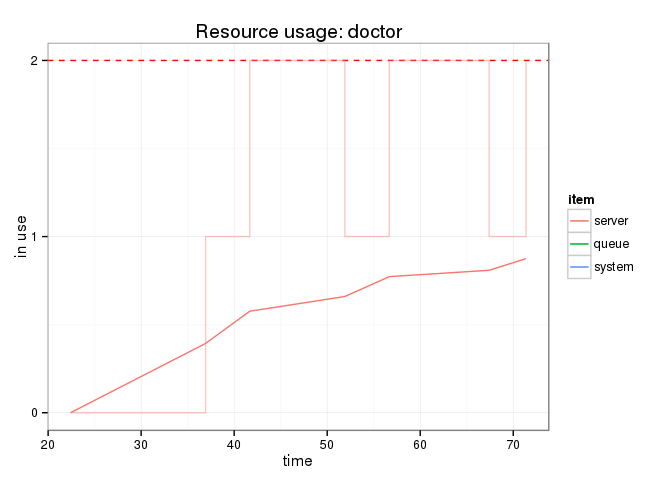
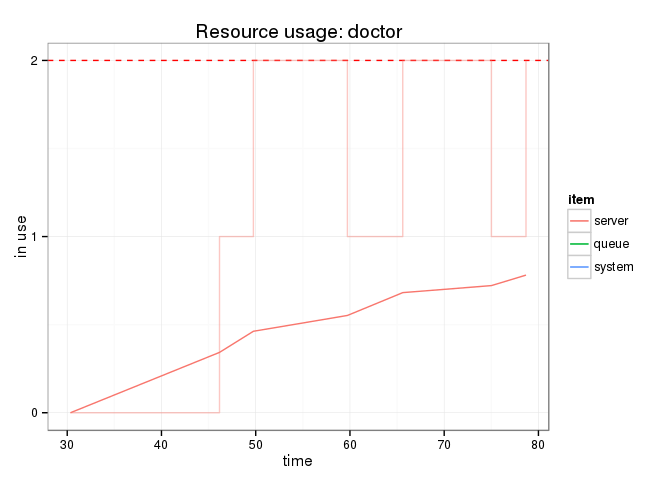
fixed documentation

diff --git a/README.html b/README.html
@@ -27,8 +27,8 @@
   seize(&quot;administration&quot;, 1) $
   timeout(function() rnorm(1, 5)) $
   release(&quot;administration&quot;, 1)</code></pre>
-<p>The timeout argument is evaluated dynamically, so it must be callable and must return a numeric value (note: negative values are automatically converted to positive). Moreover, this function may be as complex as you need and may do whatever you want: interact with entities in your simulation model, get resources’ status, make decisions according to the latter…</p>
-<p>When the trajectory is known, the simulation environment can be built. In the example below, an environment is instantiated and three types of resources are added. The <em>nurse</em> and <em>administration</em> resources, each one with a capacity of 1, and the <em>doctor</em> resource, with a capacity of 2. The last method adds a generator of arrivals (patients) following the trajectory <code>t0</code>. The time between patients is about 10 minutes (a Gaussian of <code>mean=10</code> and <code>sd=2</code>).</p>
+<p>The timeout argument is evaluated dynamically, so it must be callable and must return a numeric value (note: negative values are automatically converted to positive ones). Moreover, this function may be as complex as you need and may do whatever you want: interact with entities in your simulation model, get resources’ status, make decisions according to the latter…</p>
+<p>When the trajectory is known, the simulation environment can be built. In the example below, an environment is instantiated and three types of resources are added. The <em>nurse</em> and <em>administration</em> resources, each one with a capacity of 1, and the <em>doctor</em> resource, with a capacity of 2. The last method adds a generator of arrivals (patients) following the trajectory <code>t0</code>. The time between patients is about 10 minutes (a Gaussian of <code>mean=10</code> and <code>sd=2</code>). (Note: returning a negative interarrival time stops the generator).</p>
 <pre class="r"><code>simmer &lt;- Simmer$new(&quot;SuperDuperSim&quot;) $
   add_resource(&quot;nurse&quot;, 1) $
   add_resource(&quot;doctor&quot;, 2) $
@@ -37,16 +37,16 @@
 <p>The simulation is now ready for a test run; just let it <em>simmer</em> for a bit. Below, we specify that we want to limit the runtime to 80 time units using the <code>until</code> argument. After that, we verify the current simulation time (<code>now()</code>) and when will be the next event (<code>peek()</code>).</p>
 <pre class="r"><code>simmer$run(until=80)
 simmer$now()</code></pre>
-<pre><code>## [1] 80.16184</code></pre>
+<pre><code>## [1] 80.8987</code></pre>
 <pre class="r"><code>simmer$peek()</code></pre>
-<pre><code>## [1] 80.16184</code></pre>
+<pre><code>## [1] 80.8987</code></pre>
 <p>It is possible to run the simulation step by step, and such a method is chainable too.</p>
 <pre class="r"><code>simmer$step()
 simmer$step()$step()$step()
 simmer$now()</code></pre>
-<pre><code>## [1] 80.68287</code></pre>
+<pre><code>## [1] 85.62607</code></pre>
 <pre class="r"><code>simmer$peek()</code></pre>
-<pre><code>## [1] 80.68287</code></pre>
+<pre><code>## [1] 89.78046</code></pre>
 <p>Also, it is possible to resume the automatic execution simply by specifying a longer runtime. Below, we continue the execution until 120 time units.</p>
 <pre class="r"><code>simmer$run(until=120)</code></pre>
 <p>Finally, you can reset the simulation, flush all results, resources and generators, and restart from the beginning.</p>
@@ -84,19 +84,18 @@ reps &lt;- mclapply(1:100, function(i) {
   reps[[1]]$get_mon_resources()
 )</code></pre>
 <pre><code>##       time server queue system resource
-## 1 10.84529      0     0      0    nurse
-## 2 19.32764      1     0      1    nurse
-## 3 24.78814      1     1      2    nurse
-## 4 28.43090      1     0      1    nurse
-## 5 37.41629      1     1      2    nurse
-## 6 38.78439      1     2      3    nurse</code></pre>
+## 1 12.44980      0     0      0    nurse
+## 2 17.98758      1     0      1    nurse
+## 3 27.69104      1     1      2    nurse
+## 4 28.48675      1     2      3    nurse
+## 5 35.61050      1     1      2    nurse
+## 6 41.98503      1     2      3    nurse</code></pre>
 <pre class="r"><code>head(
   reps[[1]]$get_mon_arrivals()
 )</code></pre>
 <pre><code>##       name start_time end_time activity_time finished
-## 1 patient0   10.84529 49.96901      39.12372     TRUE
-## 2 patient1   19.32764 64.40916      39.62103     TRUE
-## 3 patient2   28.43090 79.95606      41.17168     TRUE</code></pre>
+## 1 patient0   12.44980 53.91402      41.46423     TRUE
+## 2 patient1   17.98758 68.45676      39.97002     TRUE</code></pre>
 <p>Unfortunately, as the C++ simulation cores are destroyed, parallelization does not allow to resume the execution of replicas.</p>
 </div>
 <div id="advanced-trajectories" class="section level3">

diff --git a/README.md b/README.md
@@ -47,9 +47,9 @@ t0 <- Trajectory$new("my trajectory") $
   release("administration", 1)
 ```
 
-The timeout argument is evaluated dynamically, so it must be callable and must return a numeric value (note: negative values are automatically converted to positive). Moreover, this function may be as complex as you need and may do whatever you want: interact with entities in your simulation model, get resources' status, make decisions according to the latter...
+The timeout argument is evaluated dynamically, so it must be callable and must return a numeric value (note: negative values are automatically converted to positive ones). Moreover, this function may be as complex as you need and may do whatever you want: interact with entities in your simulation model, get resources' status, make decisions according to the latter...
 
-When the trajectory is known, the simulation environment can be built. In the example below, an environment is instantiated and three types of resources are added. The *nurse* and *administration* resources, each one with a capacity of 1, and the *doctor* resource, with a capacity of 2. The last method adds a generator of arrivals (patients) following the trajectory ```t0```. The time between patients is about 10 minutes (a Gaussian of ```mean=10``` and ```sd=2```).
+When the trajectory is known, the simulation environment can be built. In the example below, an environment is instantiated and three types of resources are added. The *nurse* and *administration* resources, each one with a capacity of 1, and the *doctor* resource, with a capacity of 2. The last method adds a generator of arrivals (patients) following the trajectory ```t0```. The time between patients is about 10 minutes (a Gaussian of ```mean=10``` and ```sd=2```). (Note: returning a negative interarrival time stops the generator).
 
 
 ```r
@@ -69,7 +69,7 @@ simmer$now()
 ```
 
 ```
-## [1] 80.16184
+## [1] 80.8987
 ```
 
 ```r
@@ -77,7 +77,7 @@ simmer$peek()
 ```
 
 ```
-## [1] 80.16184
+## [1] 80.8987
 ```
 
 It is possible to run the simulation step by step, and such a method is chainable too.
@@ -90,7 +90,7 @@ simmer$now()
 ```
 
 ```
-## [1] 80.68287
+## [1] 85.62607
 ```
 
 ```r
@@ -98,7 +98,7 @@ simmer$peek()
 ```
 
 ```
-## [1] 80.68287
+## [1] 89.78046
 ```
 
 Also, it is possible to resume the automatic execution simply by specifying a longer runtime. Below, we continue the execution until 120 time units.
@@ -176,12 +176,12 @@ head(
 
 ```
 ##       time server queue system resource
-## 1 10.84529      0     0      0    nurse
-## 2 19.32764      1     0      1    nurse
-## 3 24.78814      1     1      2    nurse
-## 4 28.43090      1     0      1    nurse
-## 5 37.41629      1     1      2    nurse
-## 6 38.78439      1     2      3    nurse
+## 1 12.44980      0     0      0    nurse
+## 2 17.98758      1     0      1    nurse
+## 3 27.69104      1     1      2    nurse
+## 4 28.48675      1     2      3    nurse
+## 5 35.61050      1     1      2    nurse
+## 6 41.98503      1     2      3    nurse
 ```
 
 ```r
@@ -192,9 +192,8 @@ head(
 
 ```
 ##       name start_time end_time activity_time finished
-## 1 patient0   10.84529 49.96901      39.12372     TRUE
-## 2 patient1   19.32764 64.40916      39.62103     TRUE
-## 3 patient2   28.43090 79.95606      41.17168     TRUE
+## 1 patient0   12.44980 53.91402      41.46423     TRUE
+## 2 patient1   17.98758 68.45676      39.97002     TRUE
 ```
 
 Unfortunately, as the C++ simulation cores are destroyed, parallelization does not allow to resume the execution of replicas.
